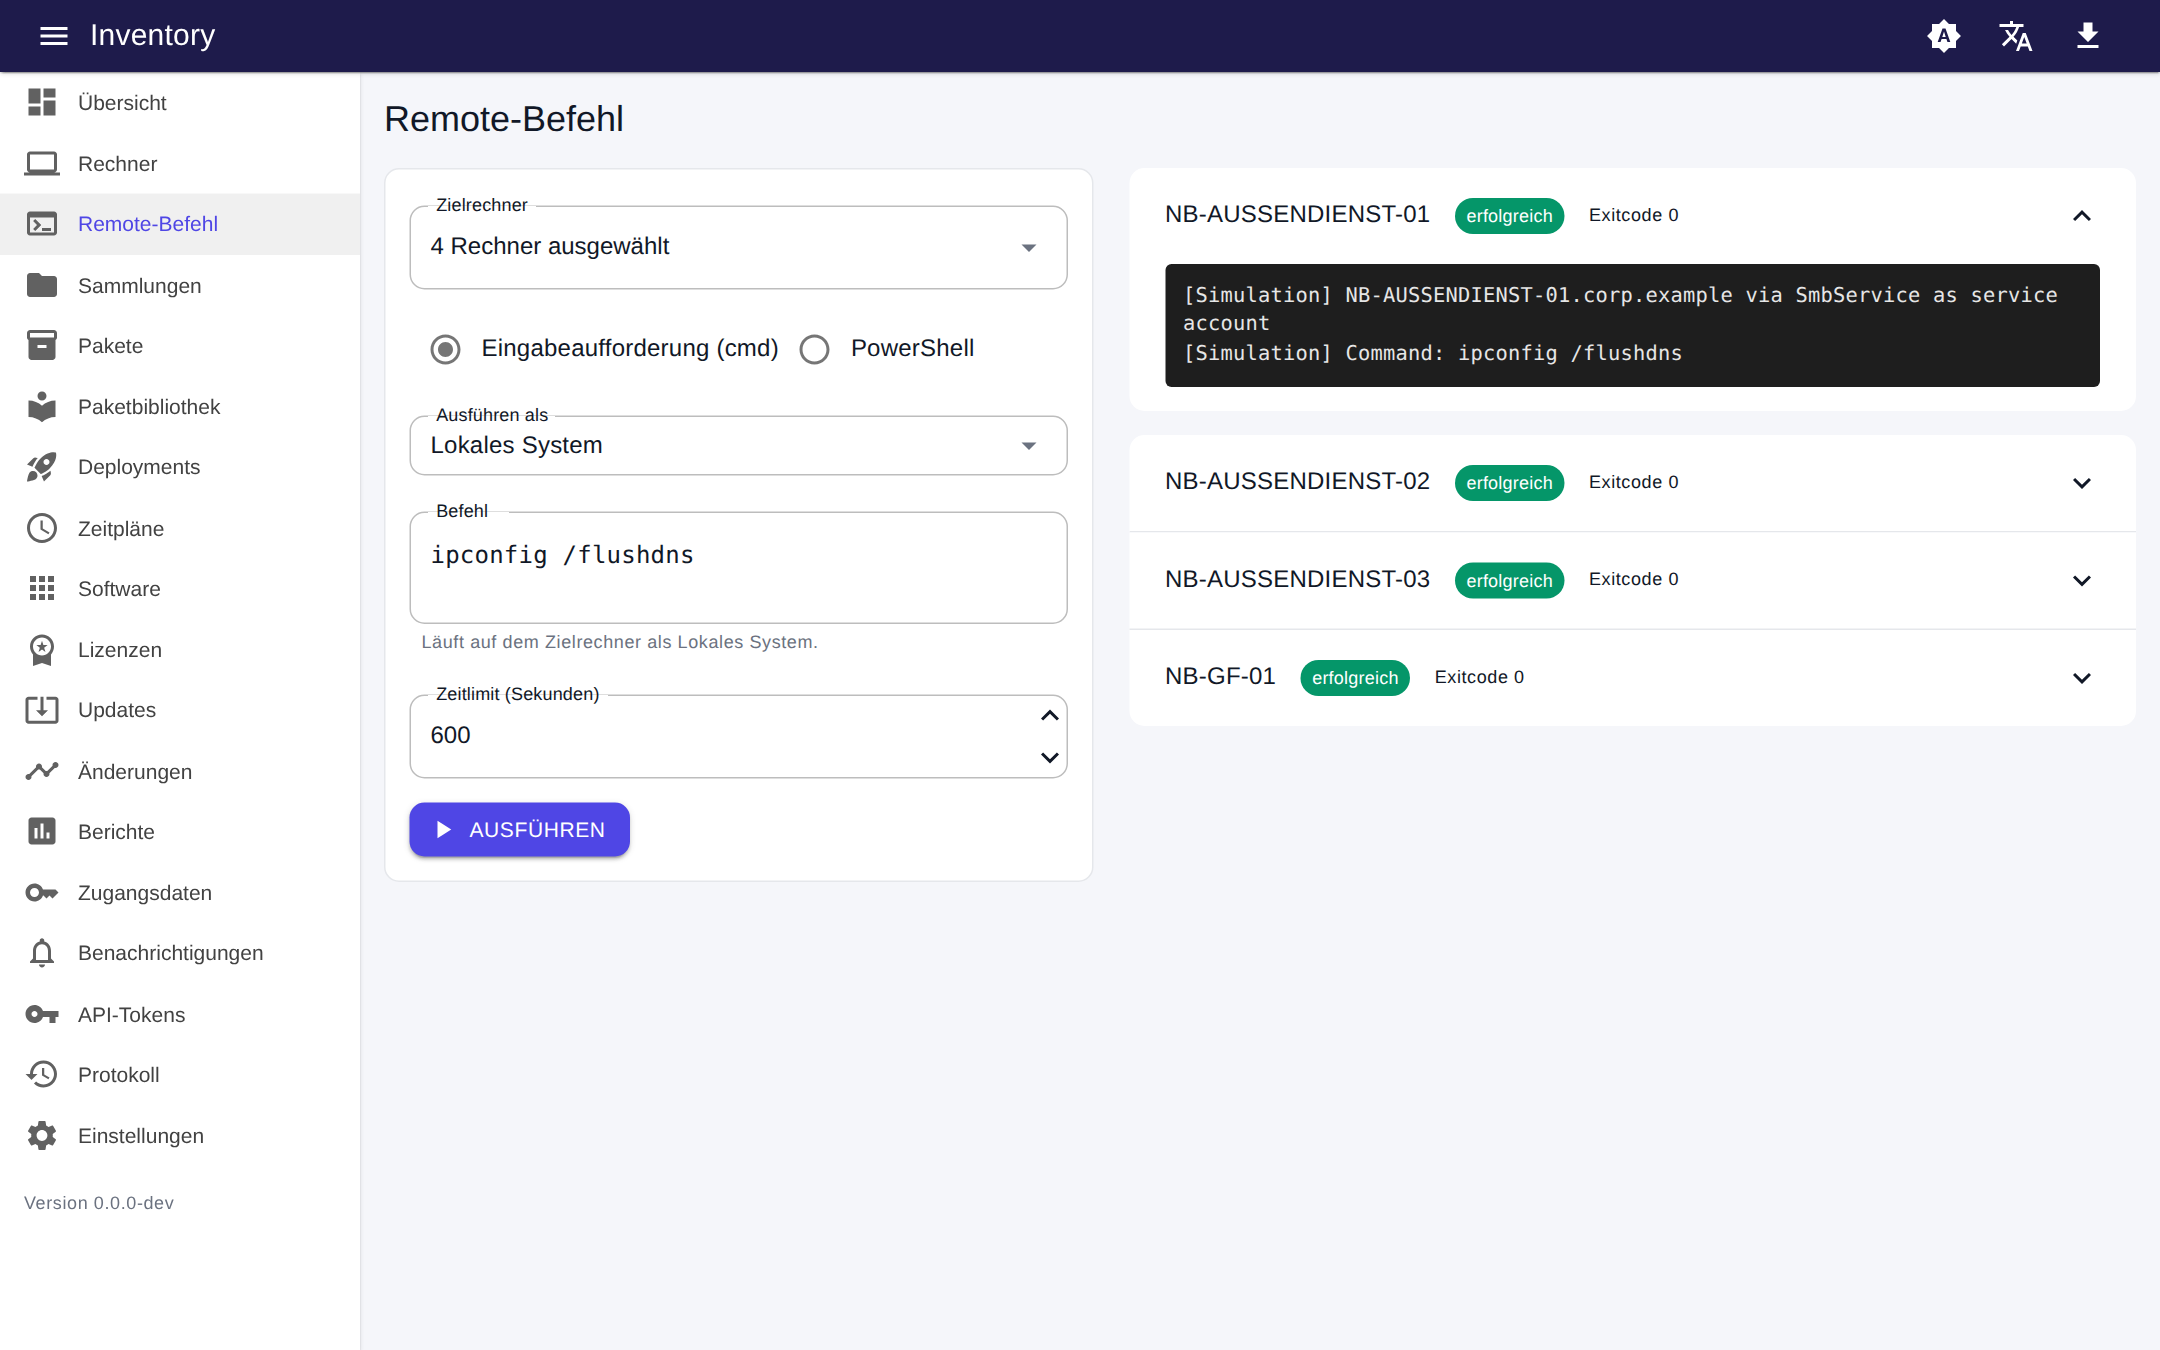
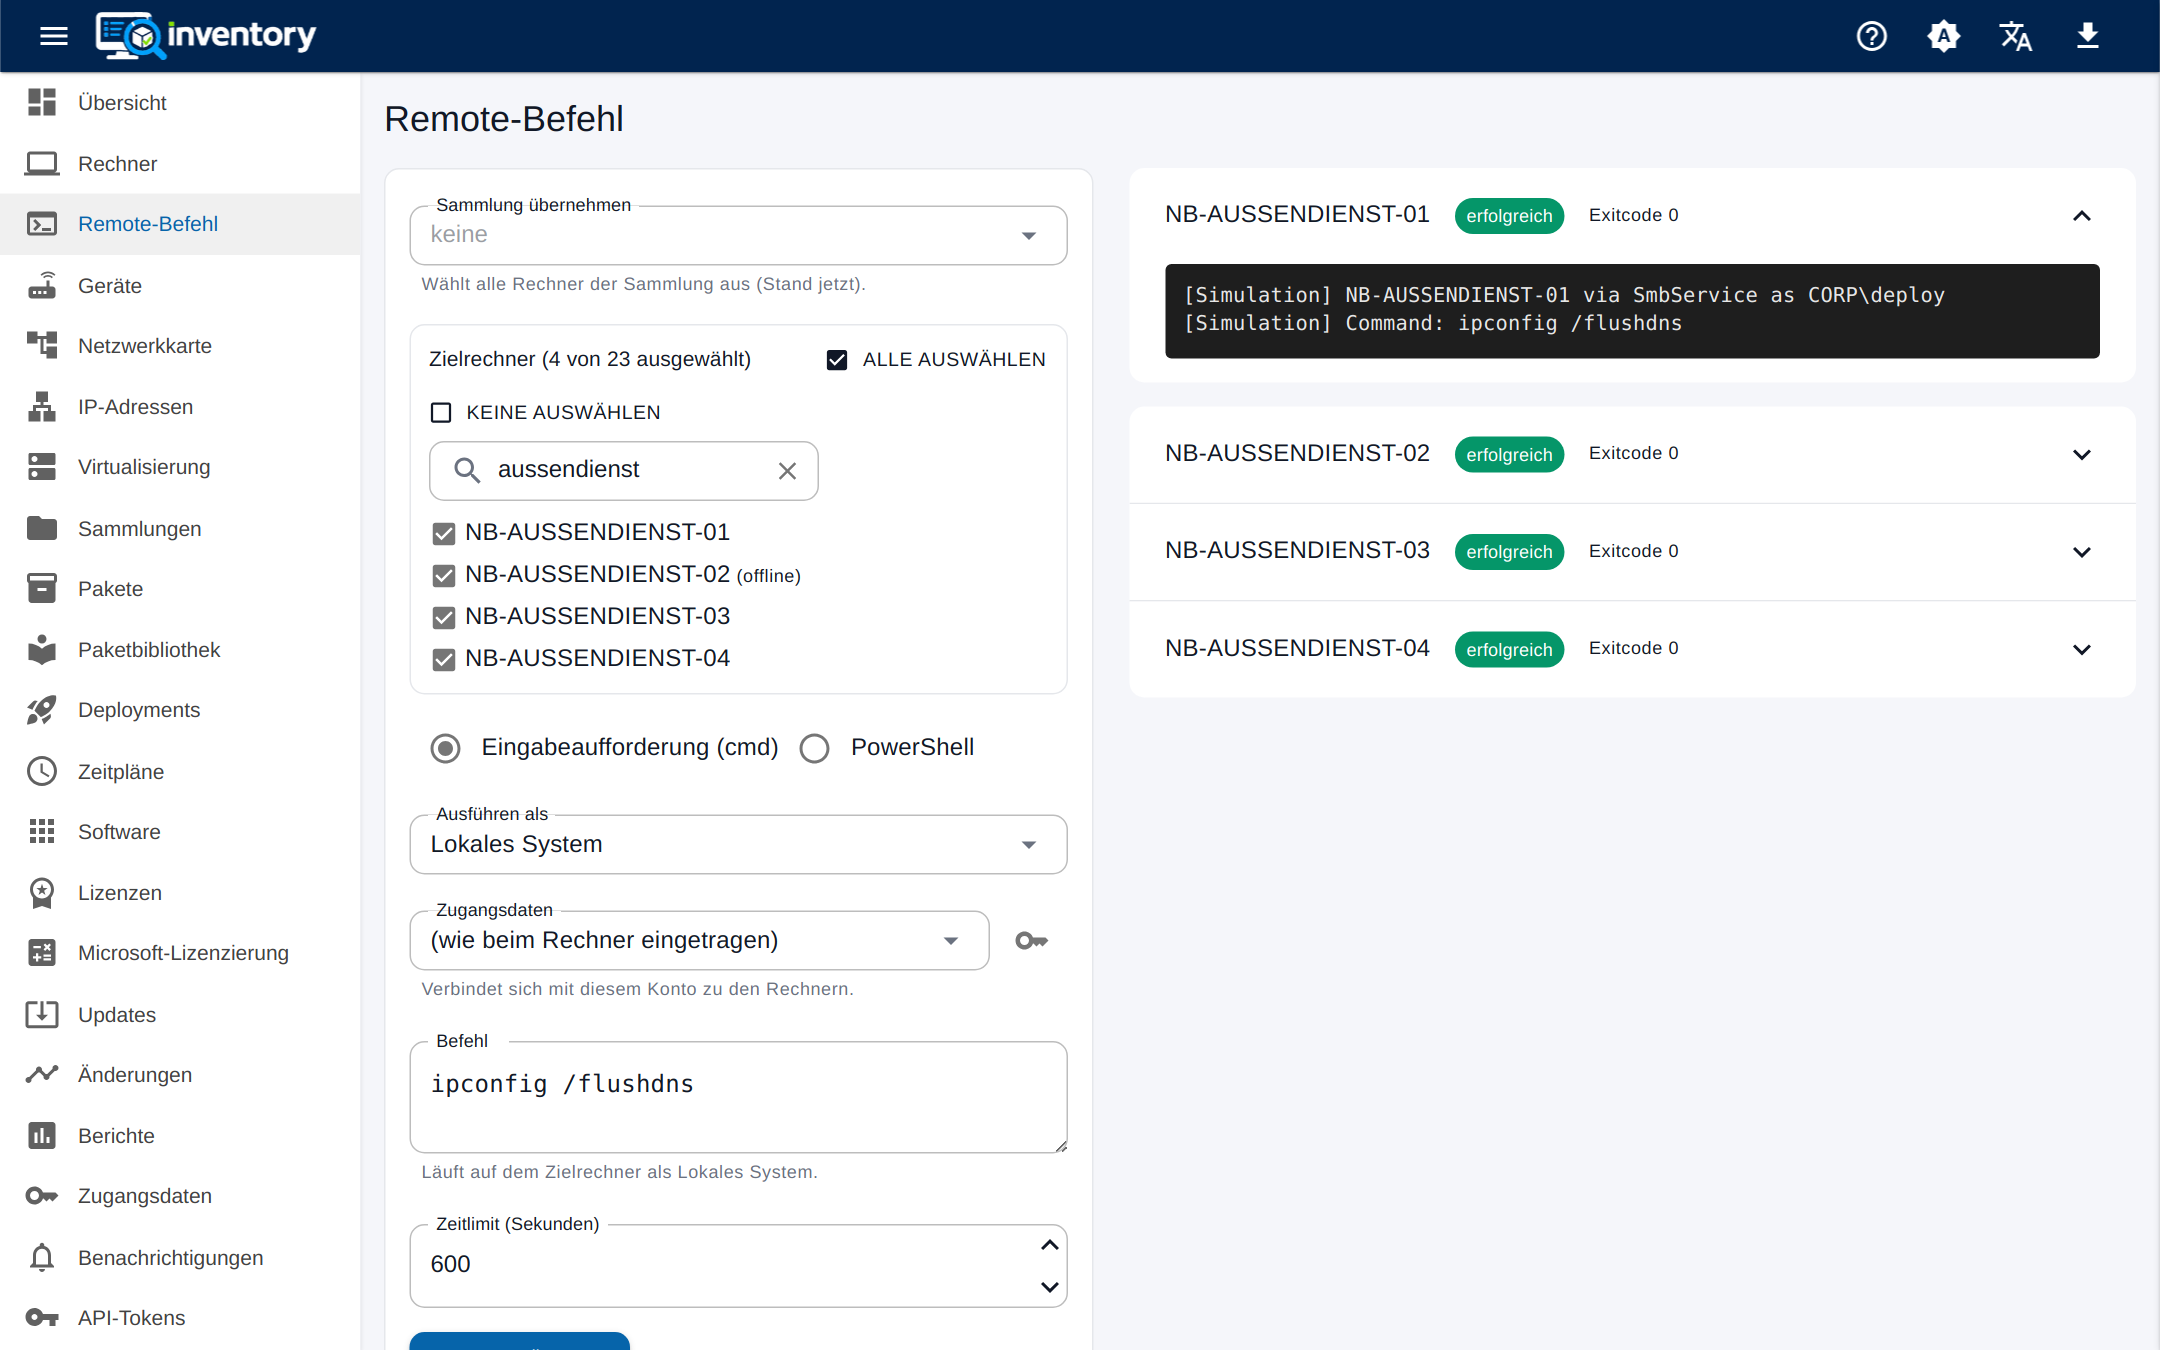
Remote command: pick the computers from a searchable list (#138)
* Remote command: pick the computers from a searchable list

The target computers were a plain dropdown without search. The page now
uses the checklist of the deploy dialog: search, select all or none of
the matches, offline marker, and "take over collection". Computers
selected in the computer list are suggested; "Show all computers" lists
the rest. The checklist can be disabled while a command runs.

The README picture of the page is retaken (it also shows the credentials
field now); two resource strings of the old dropdown are gone.

* Take over collection: ignore a stale answer

Choosing collection A and then B (or clearing the field) could let A's
slower member lookup overwrite B's selection. The answer now only applies
while its collection is still the chosen one, on the run page and in the
deploy dialog.

---------

diff --git a/README.de.md b/README.de.md
@@ -381,8 +381,9 @@ später hinzukommende Rechner folgen von selbst, und der Zeitplan zeigt, wie vie
 ![Remote-Befehl](docs/screenshots/de/run.png)
 
 Ein Befehl (cmd oder PowerShell) läuft auf mehreren Rechnern zugleich, als Lokales System, als Konto der Zugangsdaten
-oder als angemeldeter Benutzer, mit Live-Ausgabe je Rechner. Er erreicht die Rechner mit den dort eingetragenen
-Zugangsdaten oder mit beliebigen hinterlegten, die für diesen Lauf gewählt werden ([als Konto der
+oder als angemeldeter Benutzer, mit Live-Ausgabe je Rechner. Die Rechner werden in einer durchsuchbaren Liste angehakt
+oder aus einer Sammlung übernommen; eine Auswahl in der Rechnerliste kommt mit. Er erreicht die Rechner mit den dort
+eingetragenen Zugangsdaten oder mit beliebigen hinterlegten, die für diesen Lauf gewählt werden ([als Konto der
 Zugangsdaten](#konto-für-den-agentenlosen-zugriff)). Je Rechner bietet das Menü *Fernzugriff* Remoteunterstützung, das
 Spiegeln einer Sitzung, Remotedesktop und TeamViewer/AnyDesk ([Details](#fernzugriff)).
 

diff --git a/README.md b/README.md
@@ -369,7 +369,8 @@ have it.
 ![Remote command](docs/screenshots/en/run.png)
 
 A command (cmd or PowerShell) runs on several computers at once, as Local System, as the account of the credentials or
-as the logged-on user, with live output per computer. It reaches the computers with the credentials set on each of
+as the logged-on user, with live output per computer. The computers are ticked in a searchable list or taken over from a
+collection; a selection in the computer list comes along. It reaches the computers with the credentials set on each of
 them, or with any stored ones chosen for this run ([as the credentials user](#account-for-agentless-access)). Per
 computer the *Remote access* menu offers Remote Assistance, shadowing a session, Remote Desktop and TeamViewer/AnyDesk
 ([details](#remote-access)).
